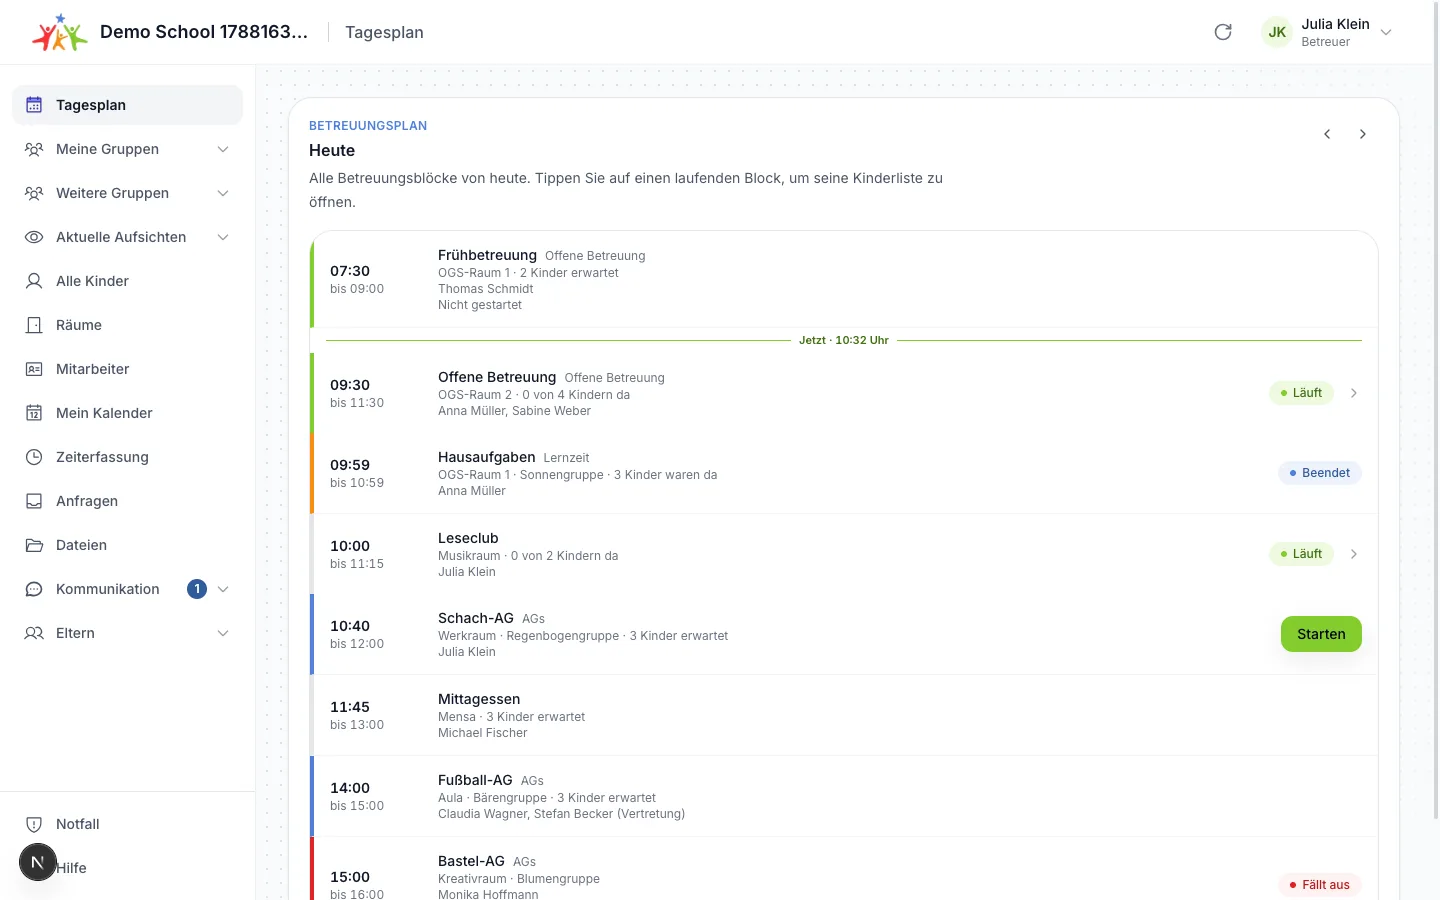
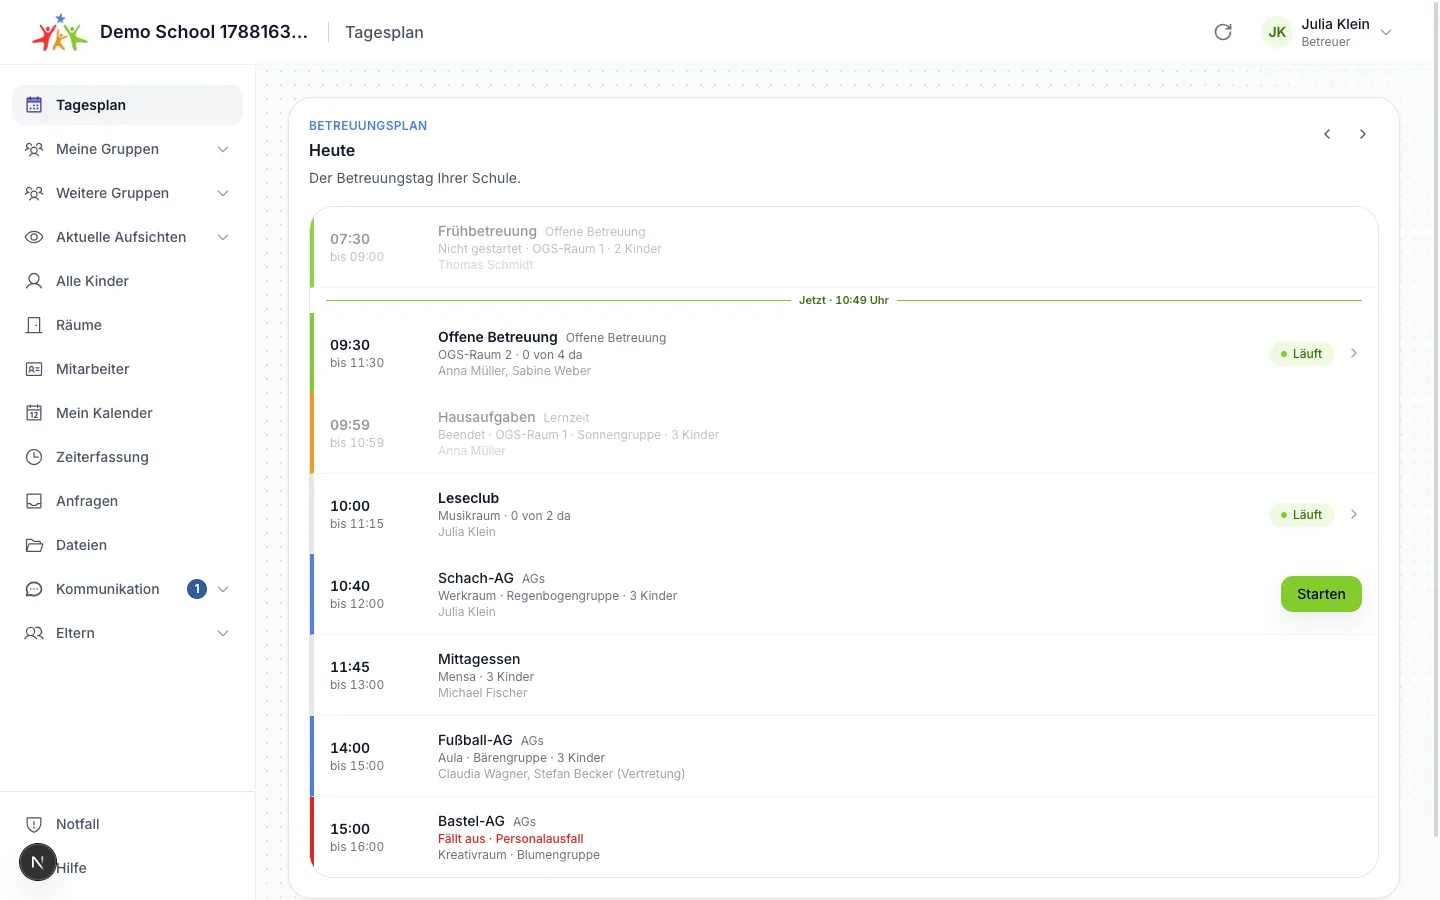
style(tagesplan): aufgeräumt wie das Elternportal — ein Blick statt Erklärtext
Gleiche Designsprache wie die ruhigen Portal-Startseiten, ohne deren UI
zu kopieren: die Liste erklärt sich selbst statt erklärt zu werden.

- Beschreibung auf einen Satz reduziert; der Tipp-Hinweis entfällt,
  Chevron und Starten-Knopf tragen das selbst.
- Vergangene Blöcke (beendet, nicht gestartet, abgesagt und vorbei)
  werden gedimmt statt etikettiert — Laufendes und Kommendes tritt von
  selbst hervor. Nur noch zwei Farbsignale: das grüne Läuft und der
  Starten-Knopf.
- Kompakte Angaben: '4 Kinder' statt '4 Kinder erwartet', '1 von 4 da'
  im laufenden Block; Beendete zeigen die Da-gewesen-Zahl. Status-Worte
  (Beendet, Nicht gestartet) stehen klein in der Metazeile, die Absage
  als eine rote Zeile 'Fällt aus · Grund' statt Badge plus Extra-Zeile.

Guide-Screenshot entsprechend erneuert.

diff --git a/frontend/src/components/timetable/tagesplan-view.tsx b/frontend/src/components/timetable/tagesplan-view.tsx
@@ -59,15 +59,10 @@ const GENERIC_ERROR =
 // Kinderliste zurückkommt, landet wieder beim Block, den er angetippt hat.
 const SCROLL_STORAGE_KEY = "tagesplan-scroll";
 
-// Nur abweichende Zustände tragen ein Etikett — "geplant" ist der Normalfall.
-const STATUS_BADGES: Partial<
-  Record<PlannedTimetableInstance["status"], { label: string; color: string }>
-> = {
-  active: { label: "Läuft", color: LOCATION_COLORS.GROUP_ROOM },
-  completed: { label: "Beendet", color: LOCATION_COLORS.OTHER_ROOM },
-  // DANGER, nicht SICK: der Termin fällt aus, niemand ist krank.
-  cancelled: { label: "Fällt aus", color: LOCATION_COLORS.DANGER },
-};
+// Genau zwei farbige Signale auf der ganzen Seite: das grüne "Läuft" und der
+// Starten-Knopf. Beendetes und Verpasstes wird gedimmt statt etikettiert,
+// eine Absage steht als rote Textzeile ("Fällt aus · Grund") in der Zeile —
+// DANGER, nicht SICK: der Termin fällt aus, niemand ist krank.
 
 function isValidISODay(value: string | null): value is string {
   return value != null && /^\d{4}-\d{2}-\d{2}$/.test(value);
@@ -118,21 +113,20 @@ function staffLine(instance: PlannedTimetableInstance): string | null {
     .join(", ");
 }
 
-function childrenLine(instance: PlannedTimetableInstance): string | null {
+// Kinderzahl so knapp wie möglich — der Tagesplan soll sich in einem Blick
+// lesen, nicht in Sätzen ("4 Kinder" statt "4 Kinder erwartet").
+function childrenShort(instance: PlannedTimetableInstance): string | null {
   if (instance.status === "cancelled") return null;
   if (instance.status === "active") {
-    return `${instance.presentStudentsCount} von ${instance.expectedStudentsCount} Kindern da`;
+    return `${instance.presentStudentsCount} von ${instance.expectedStudentsCount} da`;
   }
-  if (instance.status === "completed") {
-    // Nach dem Beenden trägt der Block keinen Erwartet-Stand mehr — nur wer
-    // da war, ist noch eine sinnvolle Zahl.
-    return instance.presentStudentsCount === 1
-      ? "1 Kind war da"
-      : `${instance.presentStudentsCount} Kinder waren da`;
-  }
-  return instance.expectedStudentsCount === 1
-    ? "1 Kind erwartet"
-    : `${instance.expectedStudentsCount} Kinder erwartet`;
+  // Nach dem Beenden gibt es keinen Erwartet-Stand mehr — zählbar ist nur
+  // noch, wer da war.
+  const count =
+    instance.status === "completed"
+      ? instance.presentStudentsCount
+      : instance.expectedStudentsCount;
+  return count === 1 ? "1 Kind" : `${count} Kinder`;
 }
 
 // Die "Jetzt"-Linie: markiert die aktuelle Uhrzeit zwischen vergangenen und
@@ -161,6 +155,7 @@ function NowDivider({ nowHHMM }: Readonly<{ nowHHMM: string }>) {
 function TagesplanRow({
   instance,
   isToday,
+  dayIsPast,
   nowHHMM,
   startBusy,
   onOpenSession,
@@ -168,31 +163,44 @@ function TagesplanRow({
 }: Readonly<{
   instance: PlannedTimetableInstance;
   isToday: boolean;
+  dayIsPast: boolean;
   nowHHMM: string;
   startBusy: boolean;
   onOpenSession: (activeGroupId: string) => void;
   onStart: (instance: PlannedTimetableInstance) => void;
 }>) {
   const room = instance.roomName ?? `Raum ${instance.roomId}`;
-  const badge = STATUS_BADGES[instance.status];
   const running = instance.status === "active";
+  const cancelled = instance.status === "cancelled";
   const openable = running && instance.activeGroupId != null;
   const startable =
     isToday &&
     instance.status === "planned" &&
     canStartPlannedInstance(instance, new Date());
   const missed =
-    instance.status === "planned" && isToday && instance.endTime <= nowHHMM;
+    instance.status === "planned" &&
+    (dayIsPast || (isToday && instance.endTime <= nowHHMM));
+  // Vorbei ist vorbei: gedimmte Zeilen lassen das Laufende und Kommende von
+  // selbst hervortreten — statt eines Etiketts an jeder Zeile.
+  const over =
+    instance.status === "completed" ||
+    missed ||
+    (cancelled && (dayIsPast || (isToday && instance.endTime <= nowHHMM)));
   const staff = staffLine(instance);
-  const children = childrenLine(instance);
 
-  const details = [room, instance.groupName, children]
-    .filter(Boolean)
-    .join(" · ");
+  const metaParts = [
+    instance.status === "completed" ? "Beendet" : null,
+    missed ? "Nicht gestartet" : null,
+    room,
+    instance.groupName,
+    cancelled ? null : childrenShort(instance),
+  ].filter(Boolean);
 
   const body = (
     <>
-      <span className="w-[4.25rem] shrink-0 sm:w-24">
+      <span
+        className={`w-[4.25rem] shrink-0 sm:w-24 ${over ? "opacity-50" : ""}`}
+      >
         <span className="block text-sm font-semibold text-gray-900 tabular-nums">
           {instance.startTime}
         </span>
@@ -200,8 +208,10 @@ function TagesplanRow({
           bis {instance.endTime}
         </span>
       </span>
-      <span className="min-w-0 flex-1">
-        <span className="block truncate text-sm font-medium text-gray-900">
+      <span className={`min-w-0 flex-1 ${over ? "opacity-50" : ""}`}>
+        <span
+          className={`block truncate text-sm text-gray-900 ${running ? "font-semibold" : "font-medium"}`}
+        >
           {instance.title}
           {instance.planningTrackName ? (
             <span className="ml-2 text-xs font-normal text-gray-500">
@@ -209,39 +219,36 @@ function TagesplanRow({
             </span>
           ) : null}
         </span>
-        <span className="block truncate text-xs text-gray-500">{details}</span>
-        {staff ? (
-          <span className="block truncate text-xs text-gray-500">{staff}</span>
-        ) : null}
-        {instance.status === "cancelled" ? (
-          <span className="block truncate text-xs text-gray-600">
+        {cancelled ? (
+          <span
+            className="block truncate text-xs font-medium"
+            style={{ color: LOCATION_COLORS.DANGER }}
+          >
             {instance.cancelReason
-              ? `Fällt aus: ${instance.cancelReason}`
-              : "Dieser Termin findet nicht statt."}
+              ? `Fällt aus · ${instance.cancelReason}`
+              : "Fällt aus"}
           </span>
         ) : null}
-        {missed ? (
-          <span className="block text-xs text-gray-500">Nicht gestartet</span>
-        ) : null}
-        <span className="mt-1 flex items-center gap-2 sm:hidden">
-          {badge ? (
-            <StatusDotBadge label={badge.label} color={badge.color} />
-          ) : null}
+        <span className="block truncate text-xs text-gray-500">
+          {metaParts.join(" · ")}
         </span>
+        {staff && !cancelled ? (
+          <span className="block truncate text-xs text-gray-400">{staff}</span>
+        ) : null}
       </span>
-      {badge ? (
-        <span className="hidden shrink-0 sm:flex">
-          <StatusDotBadge label={badge.label} color={badge.color} />
+      {running ? (
+        <span className="shrink-0">
+          <StatusDotBadge label="Läuft" color={LOCATION_COLORS.GROUP_ROOM} />
         </span>
       ) : null}
     </>
   );
 
   const edgeStyle = {
-    borderLeftColor:
-      instance.status === "cancelled"
-        ? LOCATION_COLORS.DANGER
-        : (instance.planningTrackColor ?? "#E5E7EB"),
+    borderLeftColor: cancelled
+      ? LOCATION_COLORS.DANGER
+      : (instance.planningTrackColor ?? "#E5E7EB"),
+    ...(over ? { opacity: 0.9 } : {}),
   };
 
   if (openable) {
@@ -395,13 +402,13 @@ export function TagesplanView() {
     listError instanceof TimetableOperationsApiError &&
     listError.httpStatus === 403;
 
-  const description = isToday
-    ? overviewScope === "all_staff"
-      ? "Alle Betreuungsblöcke von heute. Tippen Sie auf einen laufenden Block, um seine Kinderliste zu öffnen."
-      : "Ihre Betreuungsblöcke von heute. Sie sehen nur Termine, für die Sie eingeteilt sind. Tippen Sie auf einen laufenden Block, um seine Kinderliste zu öffnen."
-    : overviewScope === "all_staff"
-      ? `Alle Betreuungsblöcke am ${formatDate(day)}.`
-      : `Ihre Betreuungsblöcke am ${formatDate(day)}. Sie sehen nur Termine, für die Sie eingeteilt sind.`;
+  // Ein Satz, mehr nicht: die Liste erklärt sich selbst (Chevron am
+  // laufenden Block, Starten-Knopf am eigenen). Nur die eingeschränkte
+  // Sicht (#2380) muss gesagt werden, sonst fehlen scheinbar Termine.
+  const description =
+    overviewScope === "all_staff"
+      ? "Der Betreuungstag Ihrer Schule."
+      : "Ihre Einsätze. Sie sehen nur Termine, für die Sie eingeteilt sind.";
 
   return (
     <div className="w-full space-y-4">
@@ -504,6 +511,7 @@ export function TagesplanView() {
                   <TagesplanRow
                     instance={instance}
                     isToday={isToday}
+                    dayIsPast={day < today}
                     nowHHMM={nowHHMM}
                     startBusy={startBusyId === instance.id}
                     onOpenSession={openSession}

diff --git a/frontend/src/components/timetable/tagesplan-view.test.tsx b/frontend/src/components/timetable/tagesplan-view.test.tsx
@@ -220,8 +220,8 @@ describe("TagesplanView", () => {
 
     render(<TagesplanView />);
 
-    expect(screen.getByText("Fällt aus: Personalausfall")).toBeInTheDocument();
-    expect(screen.getAllByText("Beendet").length).toBeGreaterThan(0);
+    expect(screen.getByText("Fällt aus · Personalausfall")).toBeInTheDocument();
+    expect(screen.getByText(/Beendet/)).toBeInTheDocument();
     // Keine Zeile ist antippbar, kein Start-Knopf vorhanden.
     expect(
       screen.queryByRole("button", { name: /Bastel-AG|Hausaufgaben|Starten/ }),
